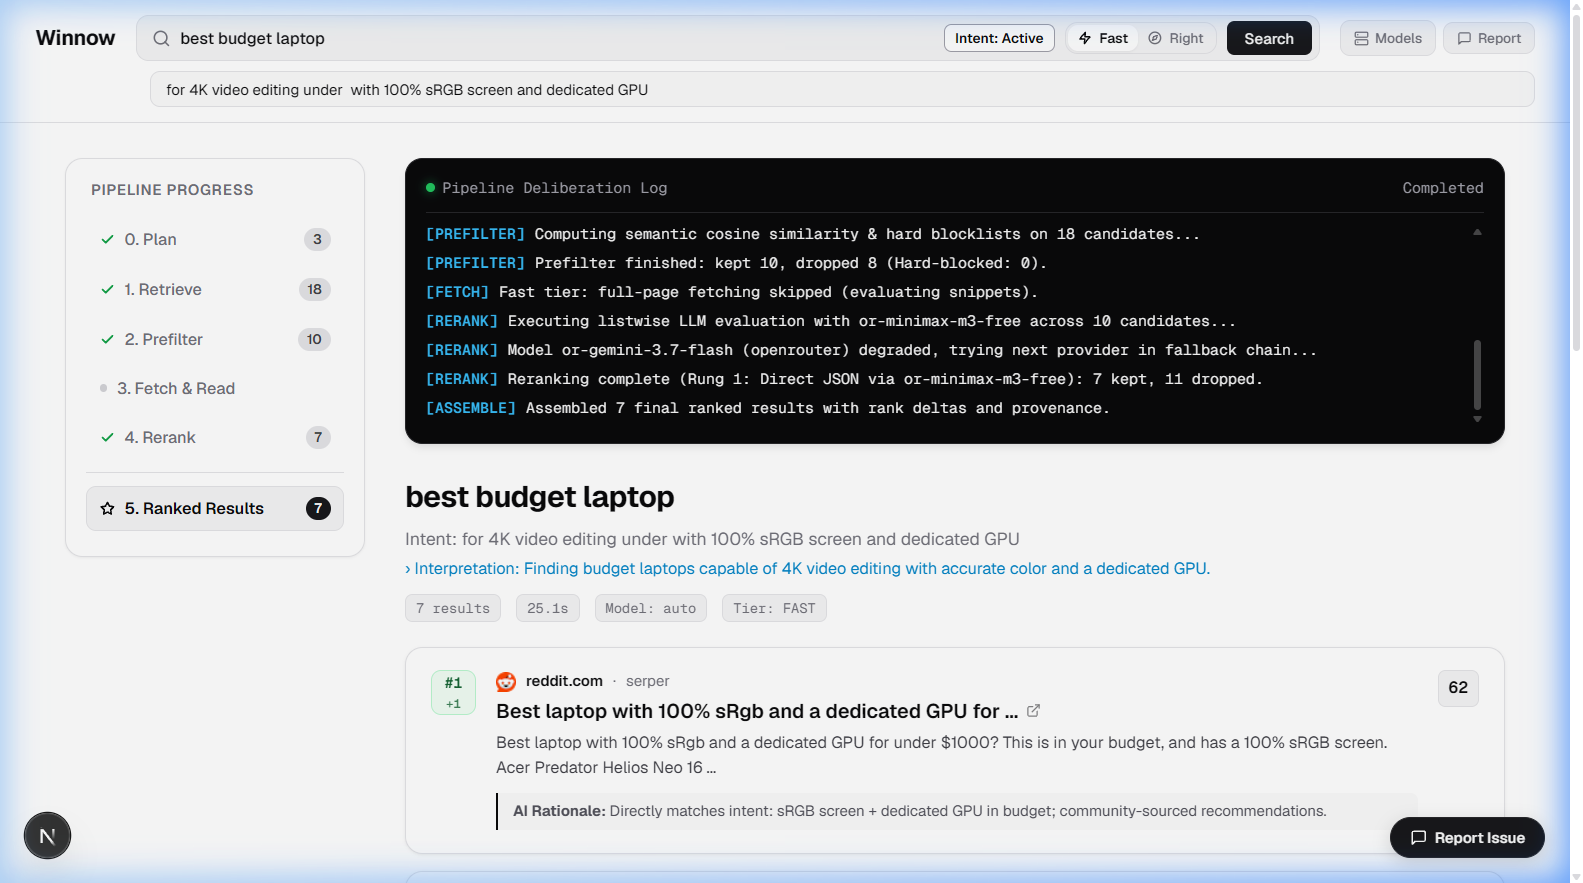
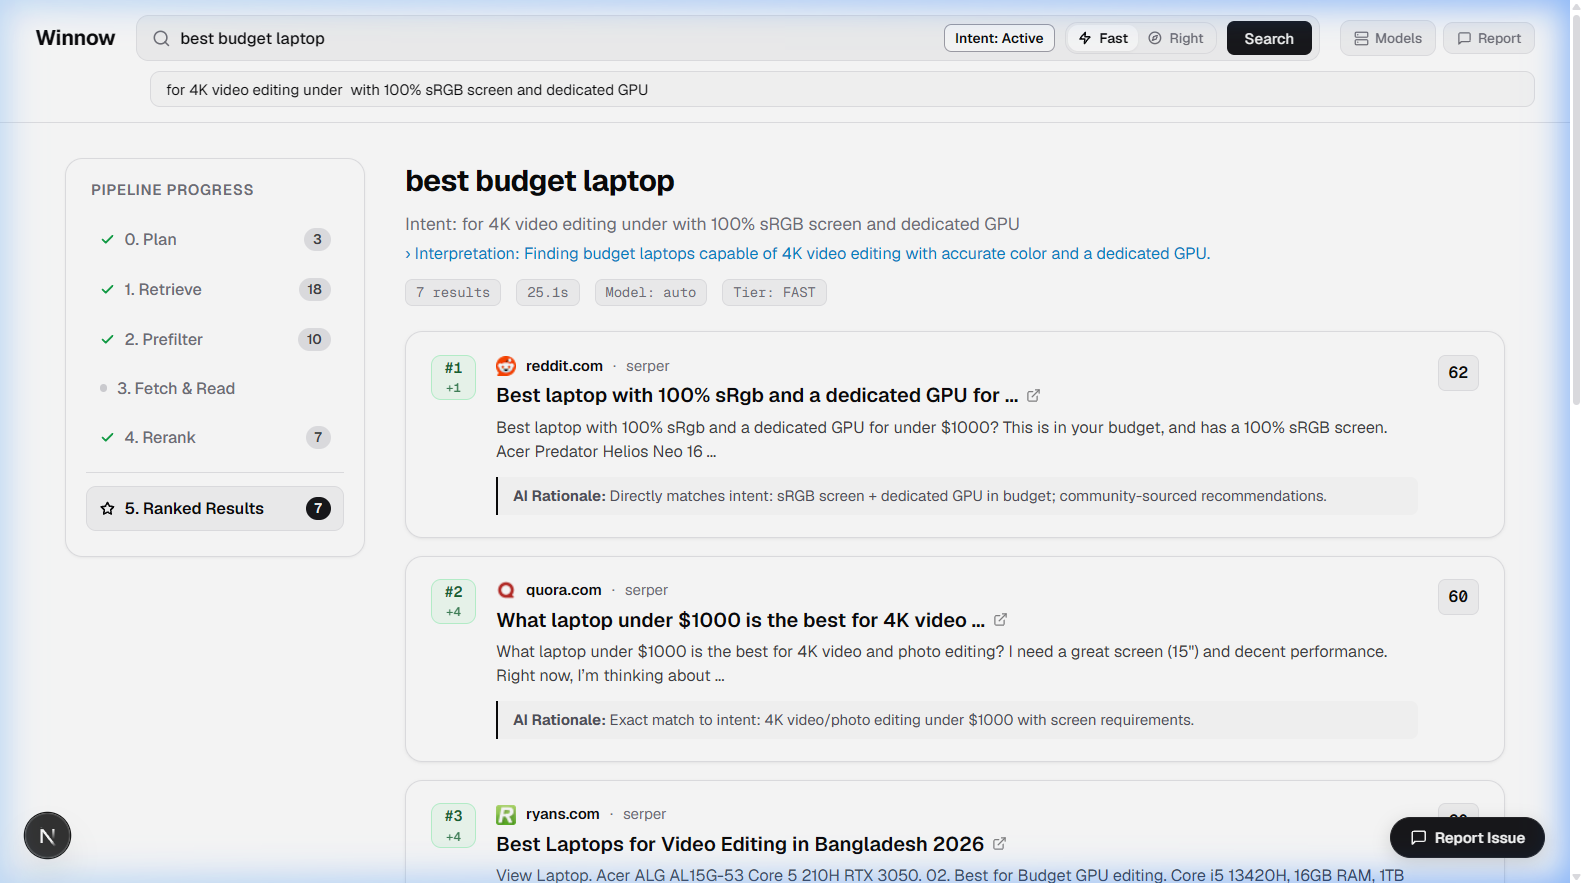
fix(ui): remove deliberation log from results screen and update README screenshots

diff --git a/app/s/[id]/page.tsx b/app/s/[id]/page.tsx
@@ -739,8 +739,8 @@ export default function RunPage() {
 
         {/* Main Content */}
         <main>
-          {/* Deliberation Log */}
-          {(isLive || (audit.deliberation_log && audit.deliberation_log.length > 0)) && (
+          {/* Deliberation Log (Inspected only in audit tabs, never on the clean results screen) */}
+          {activeTab !== '5_result' && audit.deliberation_log && audit.deliberation_log.length > 0 && (
             <div className="delib-card">
               <div className="delib-card-head">
                 <div style={{ display: 'flex', alignItems: 'center' }}>

diff --git a/README.md b/README.md
@@ -115,9 +115,9 @@ The **Winnow Rail** visualizes candidate flow in real time across all 6 stages (
 <br />
 </div>
 
-- **Pipeline Deliberation Log:** A high-visibility, real-time terminal display streaming SSE progress events directly from the orchestrator.
-- **Deep Stage Auditing:** Click into any pipeline stage (Plan, Retrieve, Prefilter, Fetch & Read, Rerank) to inspect the exact XML context fed to the model, candidate evaluations, cosine distance scores, and raw model output.
-- **Inspect Chaff:** A collapsible drawer revealing every rejected site and the exact reason it was killed (e.g. *hard blocklist*, *semantic threshold fail*, *model verdict: reject*).
+- **Uncluttered Results Screen:** The primary search results view is completely clean and distraction-free — delivering high-signal ranked links, domain favicons, and AI rationales directly below your query without terminal noise.
+- **Deep Stage Auditing & Deliberation:** Click into any pipeline stage on the left rail (Plan, Retrieve, Prefilter, Fetch & Read, Rerank) to inspect real-time pipeline deliberation logs, exact XML candidate manifests, cosine distance scores, and raw model output.
+- **Inspect Chaff:** A collapsible drawer revealing every rejected site and the exact reason it was pruned (e.g. *hard blocklist*, *semantic threshold fail*, *model verdict: reject*).
 
 ---
 
